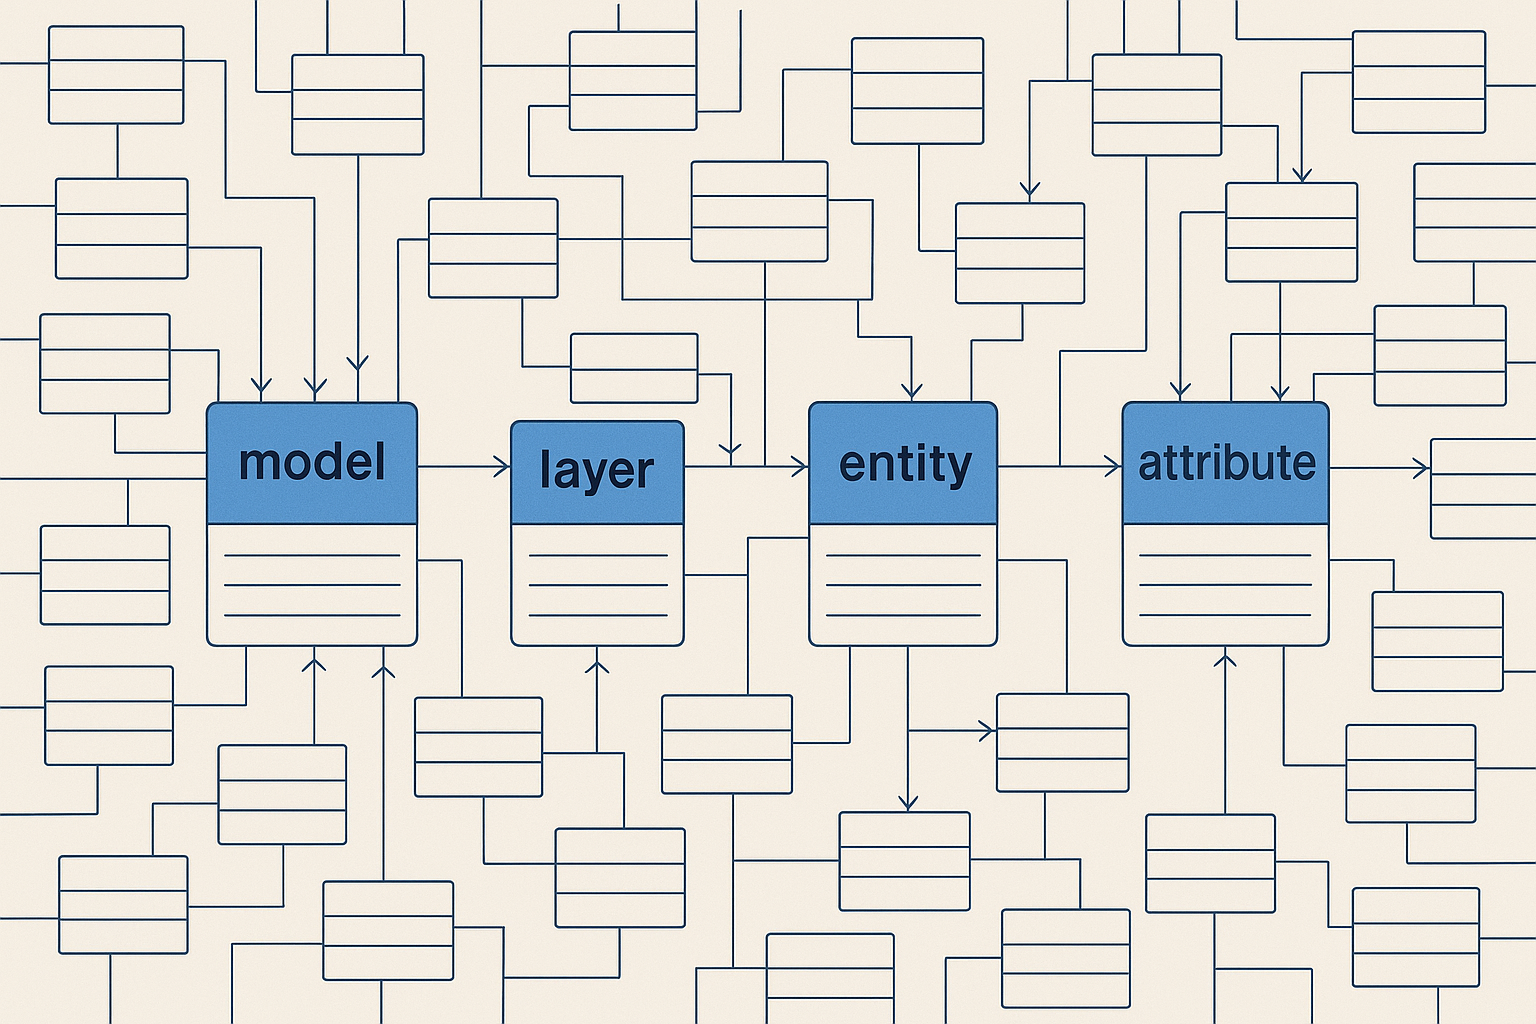
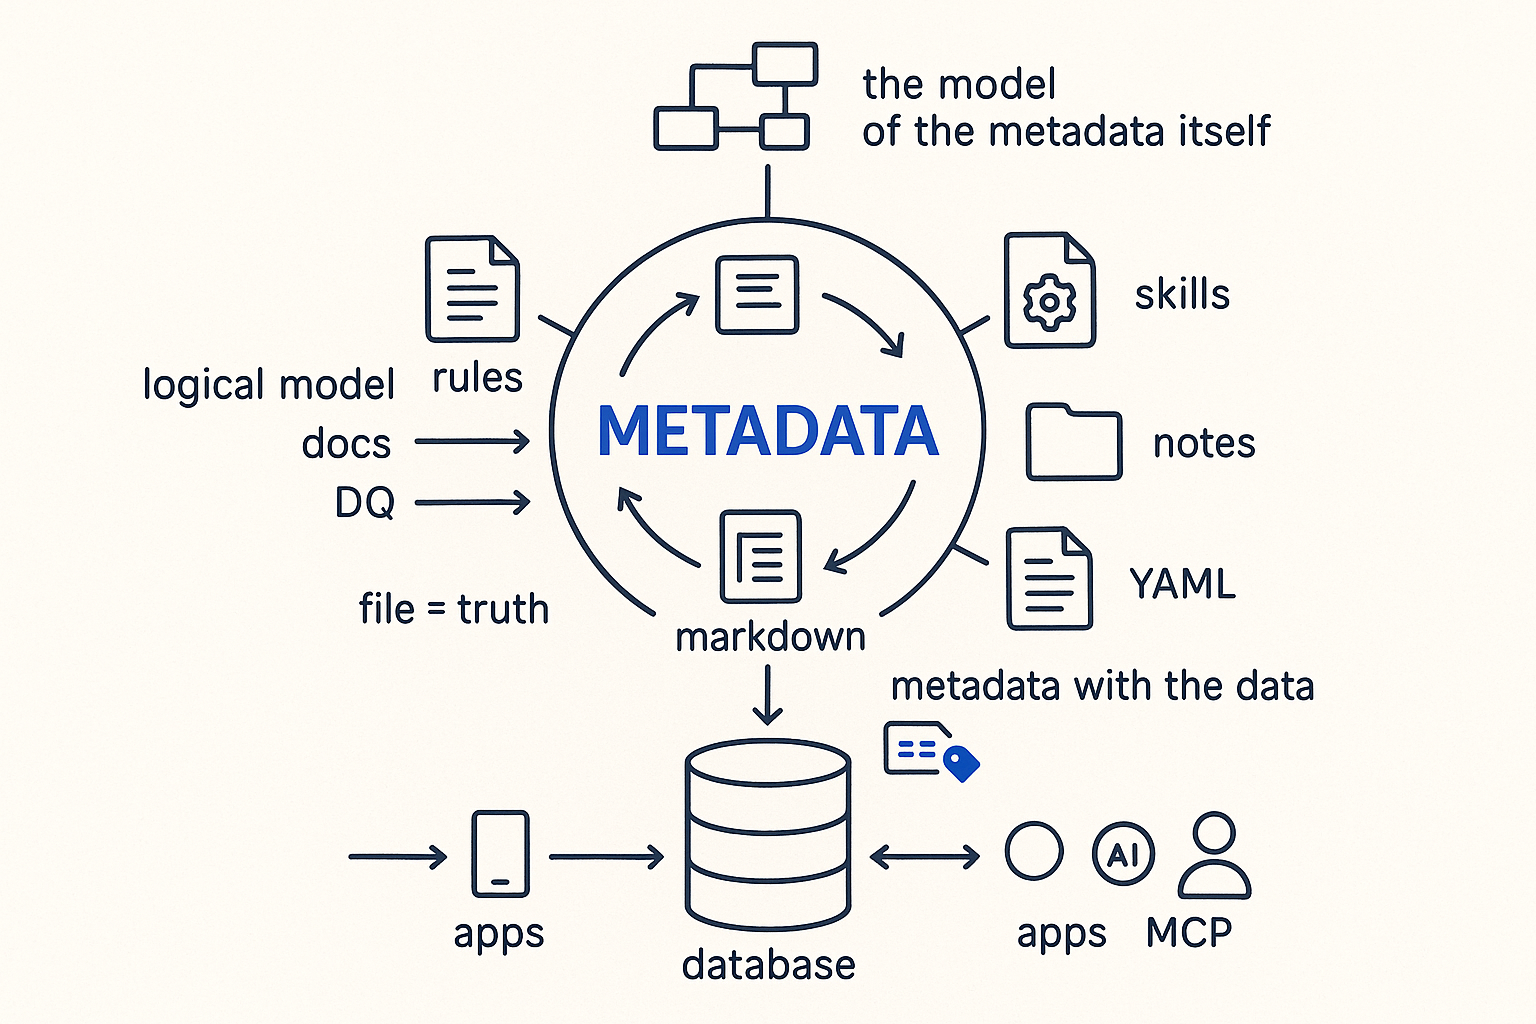
feat: new hero — metadata at the center of everything
Replaces the dense ERD (which wrongly implied the full model). New hero shows
metadata as the hub: rules/markdown/skills/notes/YAML feed in (file=truth), the
model of the metadata itself sits above, inbound metadata arrives from other
systems (logical model/docs/DQ), transformed into a database serving apps/MCP/AI/
users, always shipping metadata with the data.

diff --git a/index.html b/index.html
@@ -36,7 +36,7 @@
     <a class="btn" href="#demo">See the demo</a>
     <a class="btn ghost" href="concepts/index.html">Explore the concepts</a>
   </div>
-  <img class="hero-img" src="assets/home-hero.png" alt="An entity-relationship schema: four tables highlighted in blue as the central hubs, chained model -> layer -> entity -> attribute, with other tables connected around them." loading="eager" />
+  <img class="hero-img" src="assets/home-hero.png" alt="Metadata at the center of everything: rules, markdown, skills, notes and YAML files all feed into it (file = truth); the model of the metadata itself sits above; inbound metadata arrives from other systems (logical model, docs, DQ); the metadata is transformed into a database that serves apps, MCP servers, AI and users, always shipping metadata with the data." loading="eager" />
 </div>
 
 <section class="wrap" id="idea">
